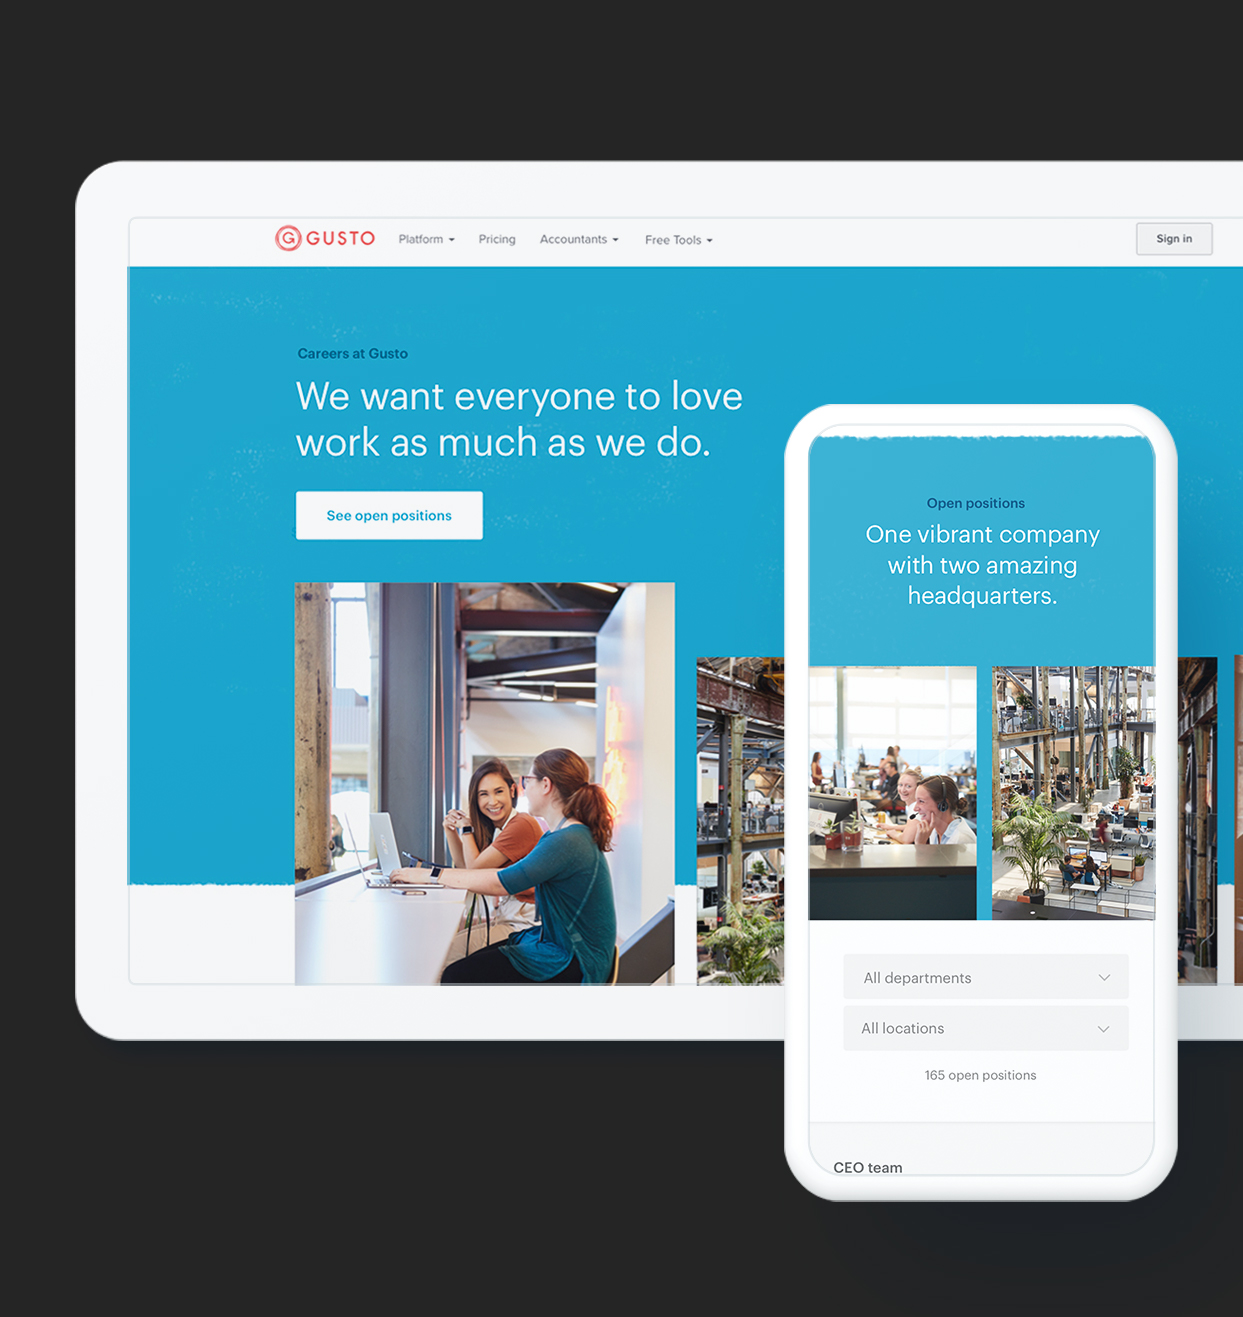
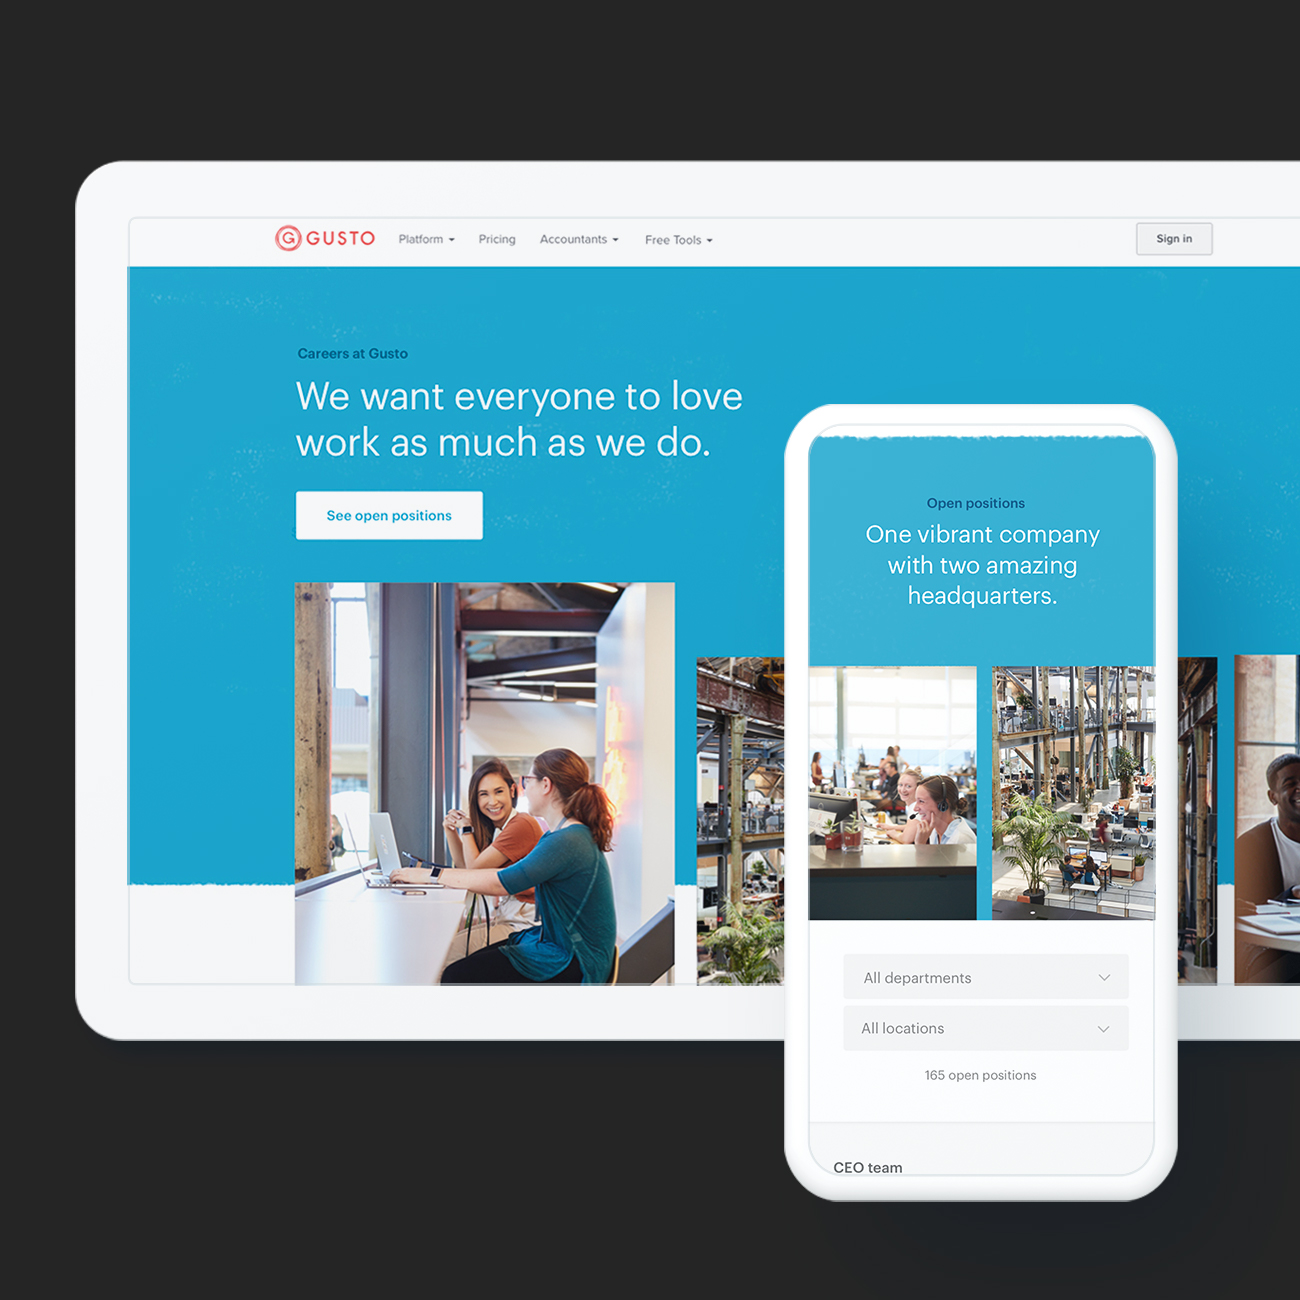
standardized homepage images

diff --git a/scripts.js b/scripts.js
@@ -2,11 +2,7 @@
 // Credit: https://scrollrevealjs.org/
 
 //----------------- Homepage -----------------
-ScrollReveal().reveal('.work-img.one', { delay: 50 });
-ScrollReveal().reveal('.work-img.two', { delay: 200 });
-ScrollReveal().reveal('.work-img.three', { delay: 50 });
-ScrollReveal().reveal('.work-img.four', { delay: 200 });
-ScrollReveal().reveal('.work-img.five', { delay: 400 });
+ScrollReveal().reveal('.work-img');
 
 //----------------- Work -----------------
 

diff --git a/index.php b/index.php
@@ -26,20 +26,20 @@
       <div class='work-row row'>
         <div class='work-col col-md-6'>
           <a class='work' href='gusto-careers.php'>
-            <div class='work-img one'>
+            <div class='work-img'>
               <img src='images/img-work-gusto-careers.jpg', class='img-responsive', alt='Natalie Schoch, designer', title='Natalie Schoch, designer'/>
             </div>
-            <p class='bold margin-bottom-0px'>Gusto Careers<sup class='opacity padding-left-5px'>1</sup></p>
-            <p>Design &amp; Art Direction</p>
+            <p class='bold margin-bottom-0px'>1. Gusto Careers</p>
+            <p>Design and Art Direction</p>
           </a>
         </div>
         <div class='work-col col-md-6'>
           <a class='work'href='#'>
-            <div class='work-img two'>
+            <div class='work-img'>
               <img src='images/img-work-wordsmith.gif', class='img-responsive', alt='Natalie Schoch, Wordsmith Chrome Extension', title='Wordsmith Chrome Extension'/>
             </div>
-            <p class='bold margin-bottom-0px'>2. Wordsmith &mdash; Chrome Extension</p>
-            <p>Design &amp; Development</p>
+            <p class='bold margin-bottom-0px'>2. Wordsmith&mdash;Chrome Extension</p>
+            <p>Design and Development</p>
           </a>
         </div>
       </div>
@@ -47,7 +47,7 @@
       <div class='work-row row'>
         <div class='work-col col-md-4'>
           <a class='work' href='bp-branding.php'>
-            <div class='work-img three'>
+            <div class='work-img'>
               <img src='images/img-work-branding.jpg', class='img-responsive', alt='Natalie Schoch, designer', title='Natalie Schoch, designer'/>
             </div>
             <p class='bold margin-bottom-0px'>3. Brittany Powers Photography</p>
@@ -56,20 +56,20 @@
         </div>
         <div class='work-col col-md-4'>
           <a class='work' href='gusto-comms.php'>
-            <div class='work-img five'>
+            <div class='work-img'>
               <img src='images/img-work-gusto-comms.jpg', class='img-responsive', alt='Natalie Schoch, Wordsmith Chrome Extension', title='Wordsmith Chrome Extension'/>
             </div>
-            <p class='bold margin-bottom-0px'>Gusto Brand Design</p>
-            <p>Print &amp; Digital Illustration</p>
+            <p class='bold margin-bottom-0px'>4. Gusto Brand Design</p>
+            <p>Print and communication design</p>
           </a>
         </div>
         <div class='work-col col-md-4'>
           <a class='work' href='misc.php'>
-            <div class='work-img five'>
+            <div class='work-img'>
               <img src='images/img-work-VAD.jpg', class='img-responsive', alt='Natalie Schoch, Wordsmith Chrome Extension', title='Wordsmith Chrome Extension'/>
             </div>
-            <p class='bold margin-bottom-0px'>Miscellanous 2016 - 2018</p>
-            <p>Print &amp; Digital Illustration</p>
+            <p class='bold margin-bottom-0px'>5. Miscellanous 2016 - 2018</p>
+            <p>Print</p>
           </a>
         </div>
       </div>

diff --git a/gusto-careers.php b/gusto-careers.php
@@ -12,7 +12,7 @@
                 <span class='block'>Design and Art Direction &mdash; 2018</span>
               </p>              
               <p>
-                As a fast-growing company, hiring is one of Gusto's toughest goals. The careers page is a integral part of that recruiting process since it is the last touch point before a candidate submits their applications.
+                As a fast-growing company, hiring is one of Gusto's toughest challenges. The careers page is a integral part of that recruiting process since it is the last touch point before a candidate submits their applications.
                 In 2018, Gusto invested in redesigning our careers page to ensure it reflected the company's vibrant culture.
 
 

diff --git a/_header.php b/_header.php
@@ -25,7 +25,7 @@
     // page interactions
   </script>
   <script src="https://unpkg.com/scrollreveal"></script>
-  <script>ScrollReveal({ distance: '50px', duration: 1000 })</script>
+  <script>ScrollReveal({ distance: '50px', duration: 2000 })</script>
 </head>
 
 <a name='nav-anchor'></a>
